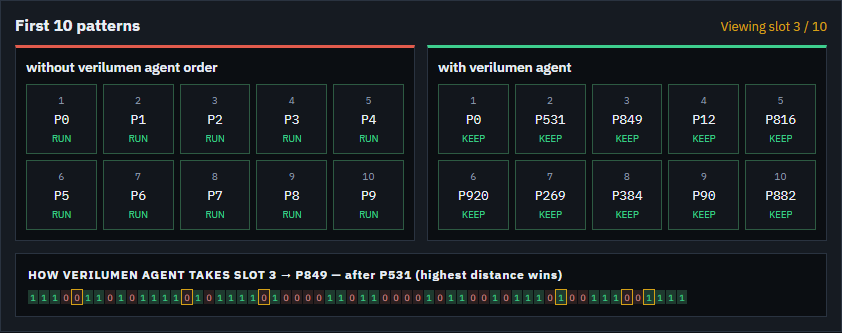
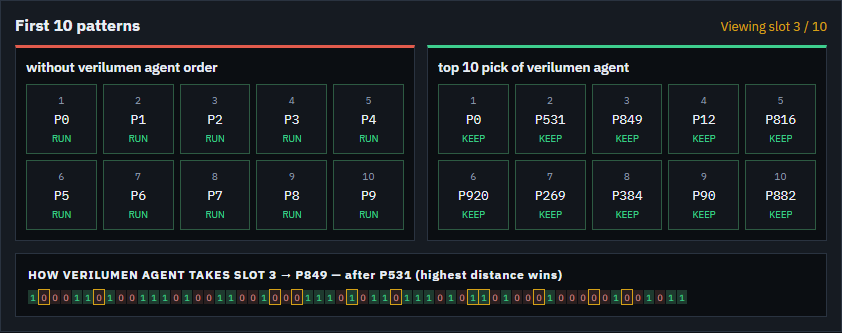
Rename first-10 panel label across app and guides.
Use "top 10 pick of verilumen agent" consistently in the dashboard first-ten panel, demo page, and regenerated guide assets.

diff --git a/docs/demo-dashboard.html b/docs/demo-dashboard.html
@@ -155,7 +155,7 @@
               </div>
             </div>
             <div class="ten-board lstm">
-              <div class="ten-title">with verilumen agent</div>
+              <div class="ten-title">top 10 pick of verilumen agent</div>
               <div class="ten-grid">
                 <div class="ten-slot filled"><div class="ten-slot-num">1</div><div class="ten-slot-pid">P0</div><div class="ten-slot-tag">KEEP</div></div>
                 <div class="ten-slot filled"><div class="ten-slot-num">2</div><div class="ten-slot-pid">P531</div><div class="ten-slot-tag">KEEP</div></div>

diff --git a/client/src/App.jsx b/client/src/App.jsx
@@ -1054,7 +1054,7 @@ export default function App() {
                 onSelect={jumpToStep}
               />
               <TenSlots
-                title="with verilumen agent"
+                title="top 10 pick of verilumen agent"
                 tone="lstm"
                 slots={lstmSlots}
                 cursor={focusStep}

diff --git a/docs/make_guide_pdf.py b/docs/make_guide_pdf.py
@@ -175,7 +175,7 @@ def build():
             "the status line and progress bar show embedding and comparison while results load. "
             "Do not move on until the run finishes (status shows Done).",
             "Review the first ten picks, memory gauges, and test-time gauges "
-            "(without vs with verilumen agent).",
+            "(without vs top 10 pick of verilumen agent).",
             "Add fail-log folders from your own computer.",
             "Click <b>Analyze fail counts</b> for <b>high recommended patterns order</b> "
             "and <b>low risk patterns</b>.",
@@ -222,11 +222,11 @@ def build():
         story.append(tbl)
         story.append(Spacer(1, 1 * mm))
 
-    story.append(Paragraph("3. First ten patterns (without vs with Verilumen agent)", styles["h"]))
+    story.append(Paragraph("3. First ten patterns (without vs top 10 pick of verilumen agent)", styles["h"]))
     story.append(
         Paragraph(
             "The left board (<b>without verilumen agent order</b>) shows patterns in ordinary order. The right board "
-            "(<b>with verilumen agent</b>) shows diverse patterns the agent chose to <b>KEEP</b>. "
+            "(<b>top 10 pick of verilumen agent</b>) shows diverse patterns the agent chose to <b>KEEP</b>. "
             "Click slots or use Prev/Next to replay each decision. Yellow-outlined bits are "
             "different from the already-kept comparison pattern.",
             styles["body"],

diff --git a/docs/DASHBOARD_GUIDE.md b/docs/DASHBOARD_GUIDE.md
@@ -91,7 +91,7 @@ The thin yellow bar under the status text shows progress. When the bar is full, 
 
 ---
 
-## 4. First ten patterns — without vs with Verilumen agent
+## 4. First ten patterns — without vs top 10 pick of verilumen agent
 
 ![First 10 patterns](images/04-first10.png)
 
@@ -101,7 +101,7 @@ This section is the live “decision window.” It shows the first ten pattern c
 
 On the left, **without verilumen agent order** shows patterns in ordinary order (P0, P1, P2, and so on). Each slot is marked **RUN**, meaning a full-suite tester would simply run the next pattern in sequence.
 
-On the right, **with verilumen agent** shows the patterns the agent selected. These are not in simple numerical order. The agent picks patterns that look different from each other so the smaller set still covers diverse stimulus. Each selected slot is marked **KEEP**.
+On the right, **top 10 pick of verilumen agent** shows the patterns the agent selected. These are not in simple numerical order. The agent picks patterns that look different from each other so the smaller set still covers diverse stimulus. Each selected slot is marked **KEEP**.
 
 ### Understanding one pick
 
